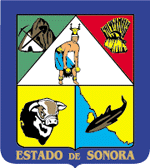
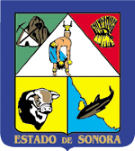
Cambios extra despues de presentarlo

diff --git a/src/mx/itson/catrina/ui/Main.java b/src/mx/itson/catrina/ui/Main.java
@@ -33,7 +33,7 @@ public class Main extends javax.swing.JFrame {
     public Main() {
         
         initComponents();
-        lblImagen.setIcon(new javax.swing.ImageIcon(getClass().getResource("descarga.png")));
+        lblImagen.setIcon(new javax.swing.ImageIcon(getClass().getResource("banco.jpg")));
         lblEscudo.setIcon(new javax.swing.ImageIcon(getClass().getResource("sonora.png")));
         
     }
@@ -72,9 +72,9 @@ public class Main extends javax.swing.JFrame {
         lblEscudo = new javax.swing.JLabel();
 
         setDefaultCloseOperation(javax.swing.WindowConstants.EXIT_ON_CLOSE);
-        setTitle("Catrina");
+        setTitle("Estado de cuenta");
         setBackground(new java.awt.Color(255, 255, 255));
-        setIconImage(Toolkit.getDefaultToolkit().getImage(getClass().getResource("expediente.png")));
+        setIconImage(Toolkit.getDefaultToolkit().getImage(getClass().getResource("logo.png")));
         setResizable(false);
 
         jLabel1.setText("Seleccione el mes:");
@@ -110,17 +110,17 @@ public class Main extends javax.swing.JFrame {
         });
 
         jTextField2.setEditable(false);
-        jTextField2.setBackground(new java.awt.Color(255, 153, 0));
+        jTextField2.setBackground(new java.awt.Color(0, 0, 204));
         jTextField2.setFont(new java.awt.Font("Dialog", 0, 24)); // NOI18N
         jTextField2.setHorizontalAlignment(javax.swing.JTextField.CENTER);
         jTextField2.setText("ESTADO DE CUENTA");
 
         txtNombre.setEditable(false);
-        txtNombre.setBackground(new java.awt.Color(255, 153, 0));
+        txtNombre.setBackground(new java.awt.Color(0, 0, 204));
         txtNombre.setFont(new java.awt.Font("Dialog", 0, 18)); // NOI18N
 
         txtTipoCuenta.setEditable(false);
-        txtTipoCuenta.setBackground(new java.awt.Color(255, 153, 0));
+        txtTipoCuenta.setBackground(new java.awt.Color(0, 0, 204));
         txtTipoCuenta.setFont(new java.awt.Font("Dialog", 0, 18)); // NOI18N
 
         tblDatosCliente.setBackground(new java.awt.Color(204, 204, 204));
@@ -176,7 +176,7 @@ public class Main extends javax.swing.JFrame {
         }
 
         jTextField1.setEditable(false);
-        jTextField1.setBackground(new java.awt.Color(255, 153, 0));
+        jTextField1.setBackground(new java.awt.Color(0, 0, 204));
         jTextField1.setFont(new java.awt.Font("Dialog", 0, 14)); // NOI18N
         jTextField1.setText("RESUMEN DEL PERIODO");
         jTextField1.setToolTipText("");
@@ -203,7 +203,7 @@ public class Main extends javax.swing.JFrame {
         }
 
         jTextField3.setEditable(false);
-        jTextField3.setBackground(new java.awt.Color(255, 153, 0));
+        jTextField3.setBackground(new java.awt.Color(0, 0, 204));
         jTextField3.setFont(new java.awt.Font("Dialog", 0, 18)); // NOI18N
         jTextField3.setText("DETALLE DE MOVIMIENTOS");
         jTextField3.addActionListener(new java.awt.event.ActionListener() {
@@ -241,7 +241,7 @@ public class Main extends javax.swing.JFrame {
         }
 
         jTextField4.setEditable(false);
-        jTextField4.setBackground(new java.awt.Color(255, 153, 0));
+        jTextField4.setBackground(new java.awt.Color(0, 0, 204));
         jTextField4.setFont(new java.awt.Font("Dialog", 1, 14)); // NOI18N
         jTextField4.setHorizontalAlignment(javax.swing.JTextField.RIGHT);
         jTextField4.setText("SALDO FINAL DEL PERIODO:");
@@ -252,7 +252,7 @@ public class Main extends javax.swing.JFrame {
         });
 
         txtSaldoFinal.setEditable(false);
-        txtSaldoFinal.setBackground(new java.awt.Color(255, 153, 0));
+        txtSaldoFinal.setBackground(new java.awt.Color(0, 0, 204));
         txtSaldoFinal.setFont(new java.awt.Font("Dialog", 0, 14)); // NOI18N
 
         jLabel3.setFont(new java.awt.Font("Dialog", 0, 18)); // NOI18N
@@ -285,7 +285,7 @@ public class Main extends javax.swing.JFrame {
                             .addComponent(txtTipoCuenta, javax.swing.GroupLayout.Alignment.TRAILING, javax.swing.GroupLayout.PREFERRED_SIZE, 285, javax.swing.GroupLayout.PREFERRED_SIZE)))
                     .addGroup(javax.swing.GroupLayout.Alignment.TRAILING, layout.createSequentialGroup()
                         .addComponent(cboMes, javax.swing.GroupLayout.PREFERRED_SIZE, 250, javax.swing.GroupLayout.PREFERRED_SIZE)
-                        .addPreferredGap(javax.swing.LayoutStyle.ComponentPlacement.RELATED, 177, Short.MAX_VALUE)
+                        .addPreferredGap(javax.swing.LayoutStyle.ComponentPlacement.RELATED, 162, Short.MAX_VALUE)
                         .addComponent(txtArchivo, javax.swing.GroupLayout.PREFERRED_SIZE, 427, javax.swing.GroupLayout.PREFERRED_SIZE)
                         .addPreferredGap(javax.swing.LayoutStyle.ComponentPlacement.RELATED)
                         .addComponent(btnSeleccione))
@@ -295,26 +295,20 @@ public class Main extends javax.swing.JFrame {
                             .addGroup(layout.createSequentialGroup()
                                 .addComponent(jLabel1)
                                 .addGap(334, 334, 334)
-                                .addComponent(jLabel2, javax.swing.GroupLayout.PREFERRED_SIZE, 252, javax.swing.GroupLayout.PREFERRED_SIZE)))
-                        .addGap(0, 0, Short.MAX_VALUE))
-                    .addGroup(layout.createSequentialGroup()
-                        .addComponent(lblImagen, javax.swing.GroupLayout.PREFERRED_SIZE, 409, javax.swing.GroupLayout.PREFERRED_SIZE)
+                                .addComponent(jLabel2, javax.swing.GroupLayout.PREFERRED_SIZE, 252, javax.swing.GroupLayout.PREFERRED_SIZE))
+                            .addComponent(lblImagen, javax.swing.GroupLayout.PREFERRED_SIZE, 360, javax.swing.GroupLayout.PREFERRED_SIZE))
                         .addPreferredGap(javax.swing.LayoutStyle.ComponentPlacement.RELATED, javax.swing.GroupLayout.DEFAULT_SIZE, Short.MAX_VALUE)
-                        .addComponent(lblEscudo, javax.swing.GroupLayout.PREFERRED_SIZE, 170, javax.swing.GroupLayout.PREFERRED_SIZE)))
+                        .addComponent(lblEscudo, javax.swing.GroupLayout.PREFERRED_SIZE, 150, javax.swing.GroupLayout.PREFERRED_SIZE)))
                 .addContainerGap())
         );
         layout.setVerticalGroup(
             layout.createParallelGroup(javax.swing.GroupLayout.Alignment.LEADING)
             .addGroup(layout.createSequentialGroup()
-                .addGroup(layout.createParallelGroup(javax.swing.GroupLayout.Alignment.LEADING)
-                    .addGroup(layout.createSequentialGroup()
-                        .addContainerGap()
-                        .addComponent(lblImagen, javax.swing.GroupLayout.PREFERRED_SIZE, 127, javax.swing.GroupLayout.PREFERRED_SIZE)
-                        .addPreferredGap(javax.swing.LayoutStyle.ComponentPlacement.RELATED, javax.swing.GroupLayout.DEFAULT_SIZE, Short.MAX_VALUE))
-                    .addGroup(javax.swing.GroupLayout.Alignment.TRAILING, layout.createSequentialGroup()
-                        .addContainerGap(javax.swing.GroupLayout.DEFAULT_SIZE, Short.MAX_VALUE)
-                        .addComponent(lblEscudo, javax.swing.GroupLayout.PREFERRED_SIZE, 163, javax.swing.GroupLayout.PREFERRED_SIZE)
-                        .addPreferredGap(javax.swing.LayoutStyle.ComponentPlacement.RELATED)))
+                .addContainerGap(javax.swing.GroupLayout.DEFAULT_SIZE, Short.MAX_VALUE)
+                .addGroup(layout.createParallelGroup(javax.swing.GroupLayout.Alignment.LEADING, false)
+                    .addComponent(lblEscudo, javax.swing.GroupLayout.DEFAULT_SIZE, 151, Short.MAX_VALUE)
+                    .addComponent(lblImagen, javax.swing.GroupLayout.DEFAULT_SIZE, javax.swing.GroupLayout.DEFAULT_SIZE, Short.MAX_VALUE))
+                .addPreferredGap(javax.swing.LayoutStyle.ComponentPlacement.RELATED)
                 .addGroup(layout.createParallelGroup(javax.swing.GroupLayout.Alignment.BASELINE)
                     .addComponent(jLabel2)
                     .addComponent(jLabel1))
@@ -326,15 +320,13 @@ public class Main extends javax.swing.JFrame {
                 .addPreferredGap(javax.swing.LayoutStyle.ComponentPlacement.RELATED)
                 .addComponent(jTextField2, javax.swing.GroupLayout.PREFERRED_SIZE, javax.swing.GroupLayout.DEFAULT_SIZE, javax.swing.GroupLayout.PREFERRED_SIZE)
                 .addPreferredGap(javax.swing.LayoutStyle.ComponentPlacement.RELATED)
-                .addGroup(layout.createParallelGroup(javax.swing.GroupLayout.Alignment.TRAILING)
-                    .addGroup(layout.createSequentialGroup()
-                        .addComponent(txtNombre, javax.swing.GroupLayout.PREFERRED_SIZE, javax.swing.GroupLayout.DEFAULT_SIZE, javax.swing.GroupLayout.PREFERRED_SIZE)
-                        .addPreferredGap(javax.swing.LayoutStyle.ComponentPlacement.RELATED)
-                        .addComponent(jScrollPane1, javax.swing.GroupLayout.PREFERRED_SIZE, 78, javax.swing.GroupLayout.PREFERRED_SIZE))
-                    .addGroup(layout.createSequentialGroup()
-                        .addComponent(txtTipoCuenta, javax.swing.GroupLayout.PREFERRED_SIZE, javax.swing.GroupLayout.DEFAULT_SIZE, javax.swing.GroupLayout.PREFERRED_SIZE)
-                        .addPreferredGap(javax.swing.LayoutStyle.ComponentPlacement.RELATED)
-                        .addComponent(jScrollPane2, javax.swing.GroupLayout.PREFERRED_SIZE, 60, javax.swing.GroupLayout.PREFERRED_SIZE)))
+                .addGroup(layout.createParallelGroup(javax.swing.GroupLayout.Alignment.BASELINE)
+                    .addComponent(txtNombre, javax.swing.GroupLayout.PREFERRED_SIZE, javax.swing.GroupLayout.DEFAULT_SIZE, javax.swing.GroupLayout.PREFERRED_SIZE)
+                    .addComponent(txtTipoCuenta, javax.swing.GroupLayout.PREFERRED_SIZE, javax.swing.GroupLayout.DEFAULT_SIZE, javax.swing.GroupLayout.PREFERRED_SIZE))
+                .addPreferredGap(javax.swing.LayoutStyle.ComponentPlacement.RELATED)
+                .addGroup(layout.createParallelGroup(javax.swing.GroupLayout.Alignment.LEADING)
+                    .addComponent(jScrollPane1, javax.swing.GroupLayout.PREFERRED_SIZE, 78, javax.swing.GroupLayout.PREFERRED_SIZE)
+                    .addComponent(jScrollPane2, javax.swing.GroupLayout.PREFERRED_SIZE, 60, javax.swing.GroupLayout.PREFERRED_SIZE))
                 .addPreferredGap(javax.swing.LayoutStyle.ComponentPlacement.RELATED)
                 .addComponent(jTextField1, javax.swing.GroupLayout.PREFERRED_SIZE, javax.swing.GroupLayout.DEFAULT_SIZE, javax.swing.GroupLayout.PREFERRED_SIZE)
                 .addPreferredGap(javax.swing.LayoutStyle.ComponentPlacement.RELATED)
@@ -342,7 +334,7 @@ public class Main extends javax.swing.JFrame {
                 .addPreferredGap(javax.swing.LayoutStyle.ComponentPlacement.RELATED)
                 .addComponent(jTextField3, javax.swing.GroupLayout.PREFERRED_SIZE, javax.swing.GroupLayout.DEFAULT_SIZE, javax.swing.GroupLayout.PREFERRED_SIZE)
                 .addPreferredGap(javax.swing.LayoutStyle.ComponentPlacement.RELATED)
-                .addComponent(jScrollPane4, javax.swing.GroupLayout.PREFERRED_SIZE, 261, javax.swing.GroupLayout.PREFERRED_SIZE)
+                .addComponent(jScrollPane4, javax.swing.GroupLayout.PREFERRED_SIZE, 227, javax.swing.GroupLayout.PREFERRED_SIZE)
                 .addPreferredGap(javax.swing.LayoutStyle.ComponentPlacement.RELATED)
                 .addGroup(layout.createParallelGroup(javax.swing.GroupLayout.Alignment.BASELINE)
                     .addComponent(jTextField4, javax.swing.GroupLayout.PREFERRED_SIZE, javax.swing.GroupLayout.DEFAULT_SIZE, javax.swing.GroupLayout.PREFERRED_SIZE)
